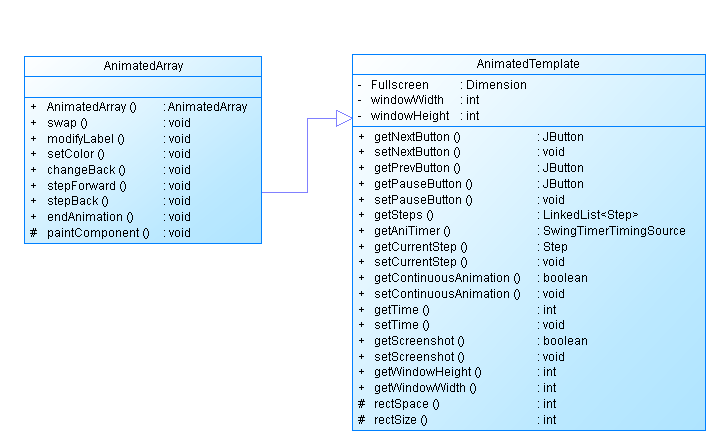
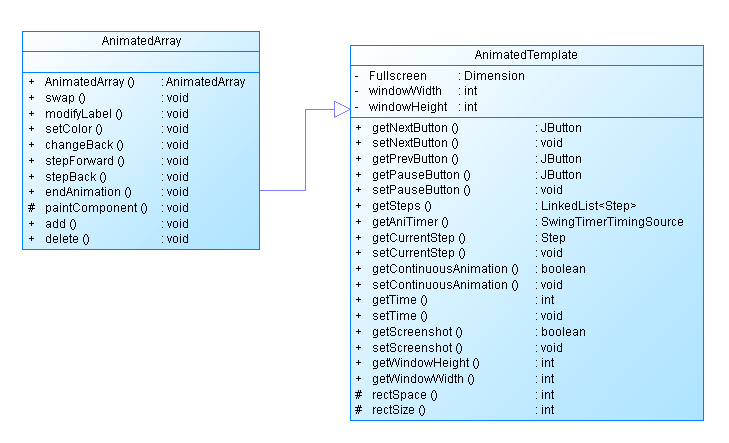
More fixes to the report (diagrams/manual)

Changed region(s): [[0.4254, 0.088, 0.9724, 0.9684], [0.0304, 0.0587, 0.4254, 0.5869]]

diff --git a/report/user_manual.tex b/report/user_manual.tex
@@ -50,20 +50,27 @@ each animated data structure from which you can choose:
 Each data structure has different animation calls which you can use to create your animation steps within your algorithm.
 Every structure support the following calls:
 \begin{itemize}
-\item swap: takes the indexes of two elements to swap and an optional int to specify the duration of the animation in milliseconds
-\item setColor: takes the index of the element changing color and a Color ENUM value
+\item swap: takes the indexes of two elements to swap and a String to label the step
+\item setColor: takes the index of the element changing color, a Color ENUM value and a String to label the step
 \item setInfo: takes a parameter String to display as an animation information
+\item setTime: takes a parameter Integer (expressing milliseconds) to set the speed of the next step created
+\end{itemize}
+
+The Array supports the following additional calls:
+\begin{itemize}
+\item add : takes 3 parameter: the index position to add the element to, the integer value of the element and a String to label the step
+\item delete : removes the element at the Integer index i, and takes a String to label the step
 \end{itemize}
 
 The LinkedList supports the following additional calls:
 \begin{itemize}
-\item findAndRemove: Find and removes the elements equal to a String s in a parameter AnimatedLinkedList
-\item addToHead : adds the integer value i at the head of the LinkedList
+\item findAndRemove: Find and removes the elements equal to a String s in a parameter AnimatedLinkedList and a String to label the step
+\item addToHead : adds the integer value i at the head of the LinkedList and a String to label the step
 \end{itemize}
 
 The Heap supports the following additional call:
 \begin{itemize}
-\item add : adds the integer value i to the heap; this function maintains the binary tree ordered structure
+\item add : adds the integer value i to the heap; this function maintains the binary tree ordered structure. It also takes a second String parameter to label the step
 \end{itemize}
 
 To animate your algorithm you have to inject the appropriate API calls into your code where you manipulate your data structure, or when you want

diff --git a/report/example.tex b/report/example.tex
@@ -258,7 +258,7 @@ At this stage, it was still possible to implement dynamic speed change to the an
 \item requirements-wise : Destroying the Animators object would obviously require us to restart the animation from the beginning; not only this is not the expected behaviour from a speed change button, this solution might also cause the application to hang due to the heavy object manipulation overhead
 \end{itemize}
 
-Due to too heavy constraints this solution was quickly dropped. With the current analysis of the implementation requirements for this feature, only one solution could reasonably be infered: static speed changing. As you've seen on (\ref{fig:swap}), we can specify the duration of the animation when creating the Animators; the solution adopted was that the user can specify his own time unit when making calls to create an algorithm animation. 
+Due to too heavy constraints this solution was quickly dropped. With the current analysis of the implementation requirements for this feature, only one solution could reasonably be infered: static speed changing. As you've seen on (\ref{fig:swap}), we can specify the duration of the animation when creating the Animators; the solution adopted was that the user can specify his own time unit using the setTime call while creating an algorithm animation. 
 
 Attempting to implement dynamic window resizing also showed the limits of our own implementation and especially of the Step management system. Although this solution was almost fully coded and working on a first and long attempt, we decided to give up on it for a cleaner, easier static resizing solution. Implementing this feature was very challenging regarding to the consistency of the Step data stored by the system. To get a better idea of the issues involved in dynamic resizing, here's a reminder of the potential data involved in resizing:
 \begin{itemize}
